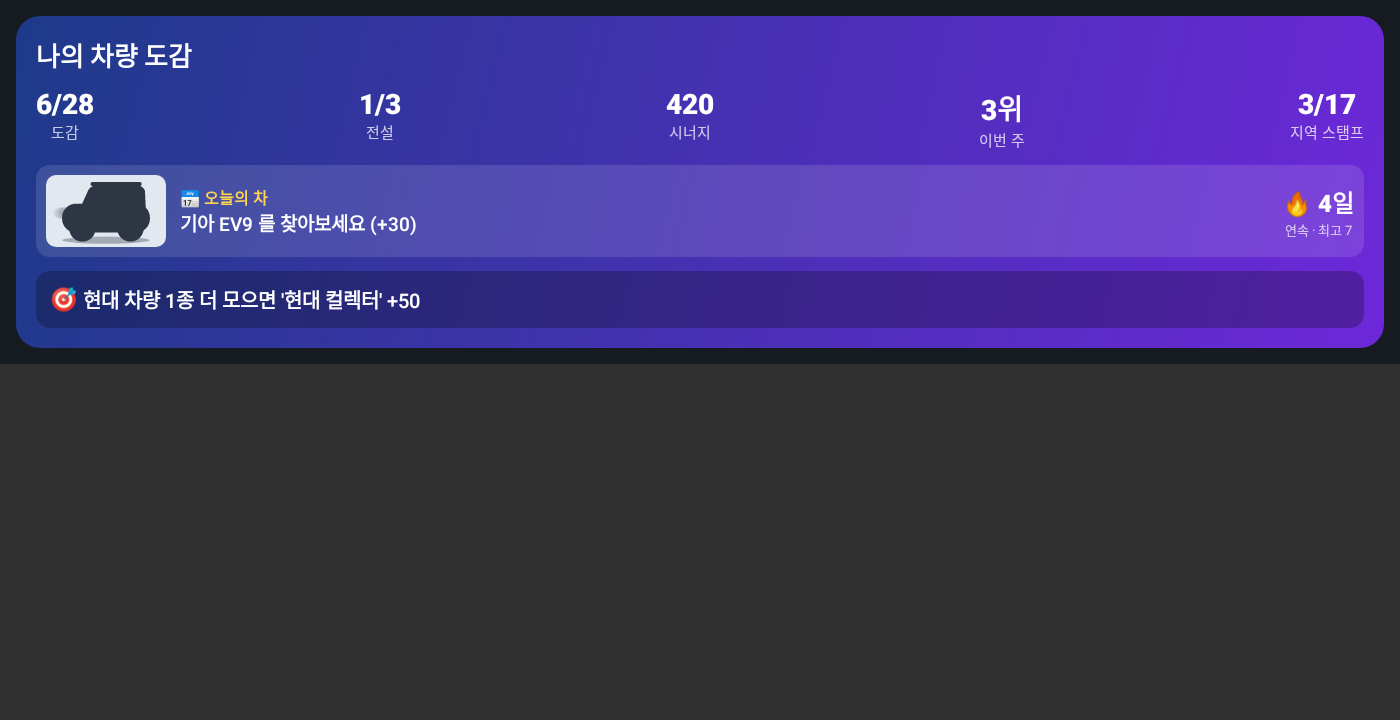
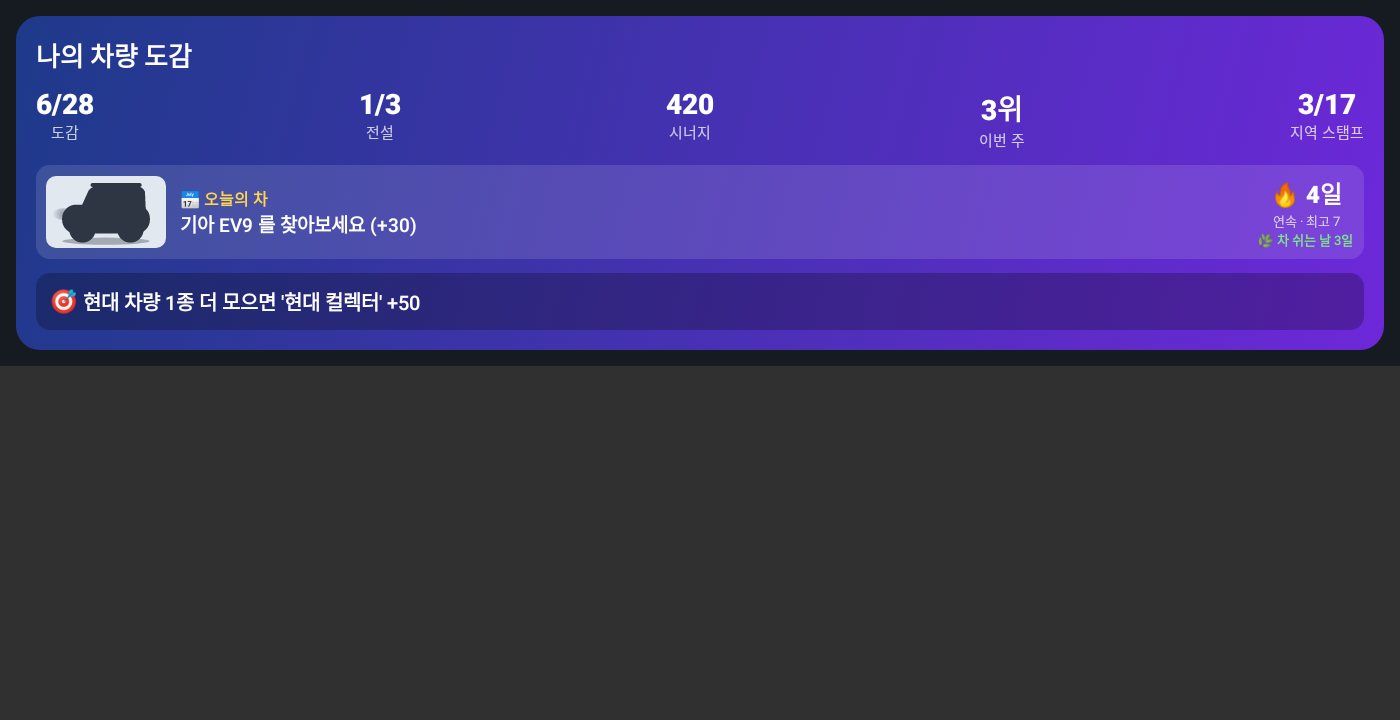
Reward days without driving: green days keep the streak
- Streak counts app check-in days and days with no recorded trip (green days)
- Green day = +10 points, leaf count, eco showroom items (sprout, bike, forest light, tree, sign, earth)
- POST /api/v1/daily/checkin settles past green days without requiring a drive
- Trip report and home card show green days

Claude-Session: https://claude.ai/code/session_012qd4Vn21w63nk2mjFkCgfU

diff --git a/pleos_car_dex/android/app/src/test/java/com/pleos/cardex/AppScreensScreenshotTest.kt b/pleos_car_dex/android/app/src/test/java/com/pleos/cardex/AppScreensScreenshotTest.kt
@@ -158,7 +158,7 @@ class AppScreensScreenshotTest {
                 home.copy(
                     dexOwned = 6, dexTotal = 28, legendaryOwned = 1, legendaryTotal = 3,
                     nextGoal = "현대 차량 1종 더 모으면 '현대 컬렉터' +50",
-                    daily = com.pleos.cardex.data.DailyMission("2026-11-09", com.pleos.cardex.data.CatalogVehicle("kia-ev9", "기아", "EV9", "SUV", "rare"), false, 30, 4, 7),
+                    daily = com.pleos.cardex.data.DailyMission("2026-11-09", com.pleos.cardex.data.CatalogVehicle("kia-ev9", "기아", "EV9", "SUV", "rare"), false, 30, 4, 7, greenDays = 3),
                 ),
             )
         }
@@ -168,7 +168,7 @@ class AppScreensScreenshotTest {
         com.pleos.cardex.ui.components.TripReportCard(
             com.pleos.cardex.data.TripReport(
                 distanceKm = 23.4f, driveMinutes = 41, newCards = listOf("현대 아이오닉 5 N", "기아 EV9"), newLegendary = 1,
-                stamps = listOf("🌉 부산", "🏢 현대 모터스튜디오 부산"), points = 95, dailyFound = true, streak = 4,
+                stamps = listOf("🌉 부산", "🏢 현대 모터스튜디오 부산"), points = 95, dailyFound = true, streak = 6, greenNew = 2, greenDays = 9,
                 totalKm = 312.5f, trips = 12, headline = "23.4km 드라이브 · 새 카드 2장 · 스탬프 2개 · 95점",
                 tts = "", nextGoal = "현대 차량 1종 더 모으면 '현대 컬렉터' +50",
             ),

diff --git a/pleos_car_dex/android/app/src/main/java/com/pleos/cardex/ui/CarDexViewModel.kt b/pleos_car_dex/android/app/src/main/java/com/pleos/cardex/ui/CarDexViewModel.kt
@@ -221,7 +221,7 @@ class CarDexViewModel(app: Application) : AndroidViewModel(app) {
         loadStamps()
         loadChallenge()
         loadRankings()
-        loadHome()
+        checkin()
         loadQuizStars()
         viewModelScope.launch { // SDK 초기화가 비동기라 잠시 뒤 상태 표시
             delay(3_000)
@@ -565,6 +565,22 @@ class CarDexViewModel(app: Application) : AndroidViewModel(app) {
                 }
                 if (r.unlockedSticker != null) loadShowroom()
             }
+        }
+    }
+
+    /** 앱을 열면 출석 (운전 불필요) + 지난 '차 쉬는 날' 정산 → 잎 🌿 */
+    private fun checkin() {
+        viewModelScope.launch {
+            call { repo.checkin() }.onSuccess { r ->
+                _state.update {
+                    it.copy(
+                        notice = r.message.takeIf { m -> m.isNotBlank() } ?: it.notice,
+                        celebration = if (r.newGreenDays > 0) Celebration("🌿", "차가 ${r.newGreenDays}일 쉬었어요", "잎 ${r.newGreenDays}장 · +${r.greenPoints}점 · 연속 기록 유지") else it.celebration,
+                    )
+                }
+                if (r.newGreenDays > 0) { loadShowroom(); refreshCollection() }
+            }
+            loadHome()
         }
     }
 

diff --git a/pleos_car_dex/android/app/src/main/java/com/pleos/cardex/ui/components/TripReportCard.kt b/pleos_car_dex/android/app/src/main/java/com/pleos/cardex/ui/components/TripReportCard.kt
@@ -49,7 +49,8 @@ fun TripReportCard(r: TripReport, onDismiss: () -> Unit) {
             }
             if (r.newCards.isNotEmpty()) Line("🃏", r.newCards.joinToString(" · ") + if (r.newLegendary > 0) "  🌟 전설 ${r.newLegendary}" else "")
             if (r.stamps.isNotEmpty()) Line("📍", r.stamps.joinToString(" · "))
-            Line("🔥", "${r.streak}일 연속" + if (r.dailyFound) " · 오늘의 차 발견 ✅" else "")
+            Line("🔥", "${r.streak}일 연속 (차 쉬는 날 포함)" + if (r.dailyFound) " · 오늘의 차 발견 ✅" else "")
+            if (r.greenNew > 0) Line("🌿", "그동안 차가 ${r.greenNew}일 쉬어서 잎 ${r.greenNew}장 · 누적 ${r.greenDays}일")
             if (r.nextGoal.isNotBlank()) Line("🎯", r.nextGoal)
             Row(Modifier.fillMaxWidth(), verticalAlignment = Alignment.CenterVertically) {
                 Text("함께 달린 거리 ${r.totalKm}km · ${r.trips}번째 드라이브", color = Color.White.copy(alpha = 0.6f), fontSize = 15.sp, modifier = Modifier.weight(1f))

diff --git a/pleos_car_dex/android/app/src/main/java/com/pleos/cardex/data/Models.kt b/pleos_car_dex/android/app/src/main/java/com/pleos/cardex/data/Models.kt
@@ -217,6 +217,15 @@ data class DailyMission(
     val bonus: Int,
     val streak: Int,
     @SerialName("best_streak") val bestStreak: Int,
+    @SerialName("green_days") val greenDays: Int = 0, // 차가 쉰 날 🌿
+)
+
+@Serializable
+data class CheckinResponse(
+    val mission: DailyMission,
+    @SerialName("new_green_days") val newGreenDays: Int = 0,
+    @SerialName("green_points") val greenPoints: Int = 0,
+    val message: String = "",
 )
 
 /** 아이용 차 맞히기 퀴즈 (YOLO 결과로 출제, 정답 포함 → 앱이 채점) */
@@ -402,6 +411,8 @@ data class TripReport(
     val points: Int = 0,
     @SerialName("daily_found") val dailyFound: Boolean = false,
     val streak: Int = 0,
+    @SerialName("green_new") val greenNew: Int = 0,
+    @SerialName("green_days") val greenDays: Int = 0,
     @SerialName("total_km") val totalKm: Float = 0f,
     val trips: Int = 0,
     val headline: String,

diff --git a/pleos_car_dex/android/app/src/main/java/com/pleos/cardex/ui/components/HomeSummaryCard.kt b/pleos_car_dex/android/app/src/main/java/com/pleos/cardex/ui/components/HomeSummaryCard.kt
@@ -80,6 +80,7 @@ private fun DailyRow(d: DailyMission) {
         Column(horizontalAlignment = Alignment.CenterHorizontally) {
             Text("🔥 ${d.streak}일", color = Color.White, fontSize = 24.sp, fontWeight = FontWeight.Black)
             Text("연속 · 최고 ${d.bestStreak}", color = Color.White.copy(alpha = 0.75f), fontSize = 13.sp)
+            Text("🌿 차 쉬는 날 ${d.greenDays}일", color = Color(0xFF7CE38B), fontSize = 13.sp, fontWeight = FontWeight.SemiBold)
         }
     }
 }

diff --git a/pleos_car_dex/android/app/src/main/java/com/pleos/cardex/data/CarDexRepository.kt b/pleos_car_dex/android/app/src/main/java/com/pleos/cardex/data/CarDexRepository.kt
@@ -43,6 +43,7 @@ class CarDexRepository(private val api: CarDexApi = CarDexApi.create()) {
     suspend fun weeklyRanking(regionId: String?) = api.weeklyRanking(regionId)
     suspend fun masters() = api.masters()
     suspend fun home() = api.home()
+    suspend fun checkin() = api.checkin()
     suspend fun tripReport(req: TripReportRequest) = api.tripReport(req)
     suspend fun demoSeed() = api.demoSeed()
     suspend fun demoReset() = api.demoReset()

diff --git a/pleos_car_dex/android/app/src/main/java/com/pleos/cardex/data/CarDexApi.kt b/pleos_car_dex/android/app/src/main/java/com/pleos/cardex/data/CarDexApi.kt
@@ -99,6 +99,9 @@ interface CarDexApi {
     @POST("api/v1/trips/report")
     suspend fun tripReport(@Body req: TripReportRequest): TripReport
 
+    @POST("api/v1/daily/checkin")
+    suspend fun checkin(): CheckinResponse
+
     @GET("api/v1/home")
     suspend fun home(): HomeSummary
 

diff --git a/pleos_car_dex/backend/app/services/daily.py b/pleos_car_dex/backend/app/services/daily.py
@@ -2,7 +2,8 @@
 
 - 매일(KST) 도감 28종 중 '오늘의 차' 하나 (전설 제외, 날짜로 결정 → 모든 사용자가 같은 차)
 - 오늘의 차를 카드로 만들면 보너스 (희귀 +30, 일반 +20) — 하루 1번
-- 수집·방문한 날이 이어지면 연속 출석
+- 연속 기록 = 앱을 연 날 + **차가 쉰 날(그린 데이)**. 운전을 안 해도 연속이 끊기지 않는다 (매일 운전하게 만드는 출석은 지양)
+- 그린 데이: 주행 기록(주차 리포트 0.5km 이상)이 없는 지난 날 → 잎 🌿 1장 = +GREEN_POINTS, 친환경 쇼룸 아이템 해금
 현대차 관점: 매일 다른 모델에 시선이 가게 하는 라인업 노출, 사용자는 매일 앱을 켤 이유.
 """
 import hashlib
@@ -15,6 +16,8 @@ from app.services.competition import KST
 from app.services.store import JsonStore
 
 BONUS = {"rare": 30, "common": 20}
+GREEN_POINTS = 10  # 차가 쉰 날 1일당 (오늘의 차 일반 보너스의 절반 — 안 타도 꾸준히 쌓임)
+GREEN_LOOKBACK = 14  # 최근 며칠까지 소급 인정
 
 
 def today() -> date:
@@ -33,7 +36,8 @@ class DailyService:
         self._path = store.extra_path("daily.json")
 
     def _load(self) -> dict:
-        return json.loads(self._path.read_text(encoding="utf-8")) if self._path.exists() else {"found": [], "active": []}
+        d = json.loads(self._path.read_text(encoding="utf-8")) if self._path.exists() else {}
+        return {"found": [], "active": [], "green": [], **d}
 
     def _save(self, d: dict) -> None:
         self._path.write_text(json.dumps(d, ensure_ascii=False, indent=2), encoding="utf-8")
@@ -45,8 +49,39 @@ class DailyService:
             d["active"].append(t)
             self._save(d)
 
+    def drive_days(self) -> set[date]:
+        """주행한 날 (주차 리포트 기준, KST)"""
+        p = self.store.extra_path("trips.json")
+        trips = json.loads(p.read_text(encoding="utf-8")) if p.exists() else []
+        return {datetime.fromisoformat(t["at"]).astimezone(KST).date() for t in trips if t.get("km", 0) >= 0.5}
+
+    def settle_green(self) -> list[str]:
+        """어제까지 중 주행 기록이 없는 날을 그린 데이로 확정. 새로 확정된 날짜 목록 반환.
+        시작점은 앱을 처음 쓴 날 (그 전 날은 소급하지 않음)."""
+        d = self._load()
+        known = [date.fromisoformat(x) for x in d["active"]] + sorted(self.drive_days())
+        if not known:
+            return []
+        t = today()
+        start = max(min(known), t - timedelta(days=GREEN_LOOKBACK))
+        driven, green = self.drive_days(), set(d["green"])
+        new = []
+        x = start
+        while x < t:
+            if x not in driven and x.isoformat() not in green:
+                new.append(x.isoformat())
+            x += timedelta(days=1)
+        if new:
+            d["green"] = sorted(green | set(new))
+            self._save(d)
+        return new
+
+    def green_days(self) -> int:
+        return len(self._load()["green"])
+
     def streak(self) -> tuple[int, int]:
-        days = sorted({date.fromisoformat(x) for x in self._load()["active"]})
+        d = self._load()
+        days = sorted({date.fromisoformat(x) for x in d["active"] + d["green"]})
         best = cur = 0
         prev = None
         for x in days:
@@ -79,4 +114,5 @@ class DailyService:
             bonus=BONUS.get(v["rarity"], 20),
             streak=cur,
             best_streak=best,
+            green_days=self.green_days(),
         )

diff --git a/pleos_car_dex/backend/tests/test_api.py b/pleos_car_dex/backend/tests/test_api.py
@@ -464,3 +464,41 @@ def test_quiz_stars_unlock_stickers(client):
     assert items["sticker-puppy"]["unlocked"] and not items["sticker-firetruck"]["unlocked"]
     assert items["sticker-firetruck"]["unlock_hint"] == "퀴즈 별 3개"
     assert client.get("/api/v1/home").json()["weekly_points"] == before  # 랭킹 원장에 기록 안 함
+
+
+def test_green_days_reward_not_driving(client, monkeypatch):
+    """차를 안 탄 날도 연속이 이어지고(그린 데이), 잎·점수·친환경 아이템을 받는다"""
+    from datetime import date, timedelta
+    from app.services import daily as daily_mod
+
+    d0 = date(2026, 11, 2)
+    monkeypatch.setattr(daily_mod, "today", lambda: d0)
+    c = client.post("/api/v1/daily/checkin").json()
+    assert c["new_green_days"] == 0 and c["mission"]["streak"] == 1
+
+    # 3일 뒤 앱을 열었는데 그동안 주행 기록 없음 -> 3일 모두 그린 데이, 연속 유지
+    monkeypatch.setattr(daily_mod, "today", lambda: d0 + timedelta(days=3))
+    c = client.post("/api/v1/daily/checkin").json()
+    assert c["new_green_days"] == 3 and c["green_points"] == 30 and "잎 3장" in c["message"]
+    assert c["mission"]["green_days"] == 3 and c["mission"]["streak"] == 4
+    assert client.post("/api/v1/daily/checkin").json()["new_green_days"] == 0  # 중복 정산 없음
+    syn = {b["name"]: b["points"] for b in client.get("/api/v1/collection").json()["synergy"]["bonuses"]}
+    assert syn["차 쉬는 날"] == 30
+    items = {i["id"]: i for i in client.get("/api/v1/showroom/items").json()["items"]}
+    assert items["eco-bike"]["unlocked"] and not items["light-forest"]["unlocked"]
+    assert items["light-forest"]["unlock_hint"] == "차 쉬는 날 5일"
+
+
+def test_trip_day_is_not_green(client, monkeypatch):
+    from datetime import date, datetime, timedelta, timezone
+    from app.services import daily as daily_mod
+
+    today = datetime.now(timezone.utc).astimezone(daily_mod.KST).date()
+    monkeypatch.setattr(daily_mod, "today", lambda: today)
+    client.post("/api/v1/daily/checkin")
+    start = (datetime.now(timezone.utc) - timedelta(minutes=30)).isoformat()
+    r = client.post("/api/v1/trips/report", json={"started_at": start, "distance_km": 12, "drive_minutes": 30}).json()
+    assert r["green_new"] == 0
+    monkeypatch.setattr(daily_mod, "today", lambda: today + timedelta(days=2))
+    c = client.post("/api/v1/daily/checkin").json()
+    assert c["new_green_days"] == 1  # 주행한 날(오늘)은 제외, 다음 날만 그린 데이

diff --git a/pleos_car_dex/backend/app/services/trips.py b/pleos_car_dex/backend/app/services/trips.py
@@ -19,14 +19,15 @@ def _aware(dt: datetime) -> datetime:
 
 
 class TripService:
-    def __init__(self, store: JsonStore, daily, home_goal):
-        self.store, self.daily, self.home_goal = store, daily, home_goal
+    def __init__(self, store: JsonStore, daily, settle_green, home_goal):
+        self.store, self.daily, self.settle_green, self.home_goal = store, daily, settle_green, home_goal
         self._path = store.extra_path("trips.json")
 
     def _load(self) -> list[dict]:
         return json.loads(self._path.read_text(encoding="utf-8")) if self._path.exists() else []
 
     def report(self, req: TripReportRequest) -> TripReport:
+        green_new = self.settle_green()  # 이번 주행 전까지 차가 쉰 날 (오늘 주행 기록 저장 전에 확정)
         since = _aware(req.started_at)
         cards = [e.card for e in self.store.list_entries() if _aware(e.first_seen_at) >= since]
         stamps = []
@@ -37,7 +38,7 @@ class TripService:
         for h in self.store.get_hidden().values():
             if _aware(h.acquired_at) >= since:
                 stamps.append(("🏢 " if h.attraction.kind == "brand" else "✨ ") + h.attraction.title)
-        points = sum(e.points for e in self.store.get_events() if _aware(e.at) >= since)
+        points = sum(e.points for e in self.store.get_events() if _aware(e.at) >= since and e.kind != "green_day")
         mission = self.daily.mission()
 
         trips = self._load()
@@ -63,9 +64,12 @@ class TripService:
             tts = f"수고하셨어요. 이번엔 {km}킬로미터를 달렸어요. 다음엔 도감 카드를 모아 볼까요?"
         if mission.found:
             tts += " 오늘의 차도 찾았어요!"
+        if green_new:
+            tts += f" 그동안 차가 {green_new}일 쉬어서 잎 {green_new}장을 받았어요."
         return TripReport(
             distance_km=km, drive_minutes=req.drive_minutes,
             new_cards=[f"{c.brand} {c.model}" for c in cards], new_legendary=sum(c.rarity == "legendary" for c in cards),
             stamps=stamps, points=points, daily_found=mission.found, streak=mission.streak,
+            green_new=green_new, green_days=mission.green_days,
             total_km=total_km, trips=len(trips), headline=headline, tts=tts, next_goal=self.home_goal(),
         )

diff --git a/pleos_car_dex/backend/app/routers/demo.py b/pleos_car_dex/backend/app/routers/demo.py
@@ -1,12 +1,24 @@
 from fastapi import APIRouter, Depends, HTTPException
 
 from app.config import get_settings
-from app.schemas import DailyMission, HomeSummary
+from app.schemas import DailyMission, CheckinResponse, HomeSummary
 from app.services import demo, home
 from app.services.deps import get_challenge, get_competition, get_decor, get_landmarks
 from app.services.pipeline import RecognitionPipeline, get_pipeline
 
 router = APIRouter(prefix="/api/v1", tags=["home / demo"])
+
+
+@router.post("/daily/checkin", response_model=CheckinResponse)
+def daily_checkin():
+    """앱을 열 때 호출 (운전하지 않아도 됨): 출석 + 지난 '차 쉬는 날' 정산"""
+    from app.services.daily import GREEN_POINTS
+    from app.services.deps import get_daily, settle_green
+    daily = get_daily()
+    daily.mark_active()
+    n = settle_green()
+    msg = f"🌿 차가 {n}일 쉬었어요 · 잎 {n}장 +{n * GREEN_POINTS}" if n else ""
+    return CheckinResponse(mission=daily.mission(), new_green_days=n, green_points=n * GREEN_POINTS, message=msg)
 
 
 @router.get("/daily", response_model=DailyMission)

diff --git a/pleos_car_dex/backend/app/services/synergy.py b/pleos_car_dex/backend/app/services/synergy.py
@@ -34,6 +34,7 @@ def compute(
     badge_points: list[int] | None = None,
     twin_points: list[int] | None = None,
     daily_points: list[int] | None = None,
+    green_points: list[int] | None = None,
 ) -> SynergyScore:
     stamps, regions = stamps or {}, regions or []
     base = sum(RARITY_POINTS.get(e.card.rarity, 10) for e in entries)
@@ -85,6 +86,8 @@ def compute(
 
     if daily_points:
         bonuses.append(SynergyBonus(name="오늘의 차", points=sum(daily_points), description=f"오늘의 차 {len(daily_points)}번 발견"))
+    if green_points:
+        bonuses.append(SynergyBonus(name="차 쉬는 날", points=sum(green_points), description=f"🌿 차가 쉰 날 {len(green_points)}일"))
     if twin_points:
         bonuses.append(SynergyBonus(name="쌍둥이 차", points=sum(twin_points), description=f"내 차와 같은 차 {len(twin_points)}번 만남"))
 
